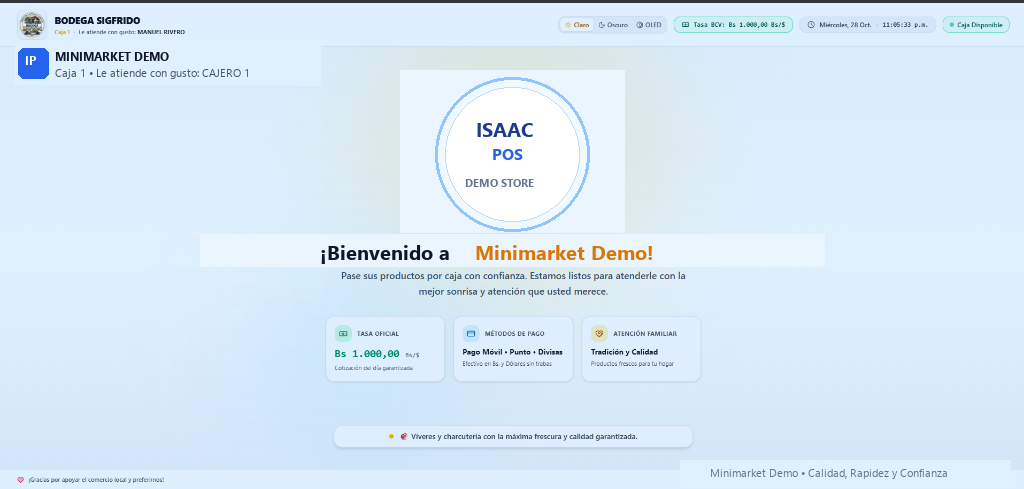
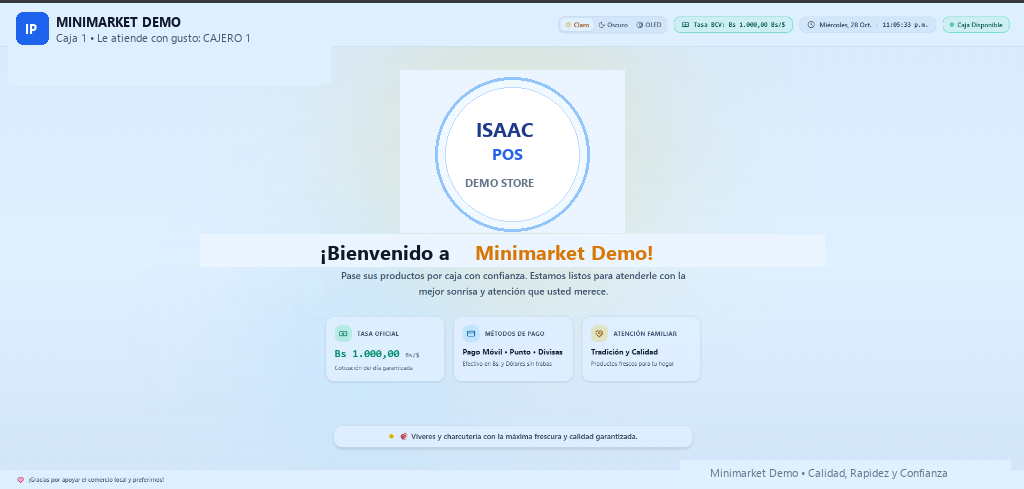
fix(audit): deep-clean remaining screenshot edges, remove legacy public assets, and sync checkout modal state

Changed region(s): [[0.0, 0.0307, 0.25, 0.184]]

diff --git a/src/components/RealSystemShowcase.tsx b/src/components/RealSystemShowcase.tsx
@@ -71,7 +71,7 @@ const PILLARS: PillarCategory[] = [
       },
       {
         id: "display",
-        name: "Visor de Cliente (2da Pantalla)",
+        name: "Visor Cliente (QR Pago Móvil)",
         badge: "QR Dinámico en Vivo",
         icon: Monitor,
         title: "Visor Secundario con QR de Pago Móvil para el Comprador",
@@ -83,6 +83,22 @@ const PILLARS: PillarCategory[] = [
           "Visualización bimonetaria transparente en USD y Bs a tasa BCV",
           "Reduce colas y elimina errores al transcribir números de teléfono o cédula",
           "Pantalla personalizable con el logo y bienvenida de tu comercio",
+        ],
+      },
+      {
+        id: "display_idle",
+        name: "Visor Cliente (Modo Bienvenida)",
+        badge: "Identidad Comercial",
+        icon: Monitor,
+        title: "Pantalla de Bienvenida del Cliente con Tasa BCV y Métodos de Pago",
+        description:
+          "Cuando la caja está disponible esperando al próximo cliente, el segundo monitor proyecta el emblema de tu negocio, la tasa oficial BCV vigente del día y los métodos de pago aceptados.",
+        image: "/real-system/v24_visor_cliente_idle.png",
+        highlights: [
+          "Exhibición permanente de la Tasa Oficial BCV para transparencia total",
+          "Personalización con el nombre, logo y mensaje de tu comercio",
+          "Indicador en vivo de métodos de pago (Pago Móvil, Punto, Divisas)",
+          "Conmutación automática al carrito de compras apenas se escanea el primer artículo",
         ],
       },
       {
@@ -285,31 +301,6 @@ export const RealSystemShowcase: React.FC = () => {
     }
   };
 
-  // Datos para el simulador de 2da pantalla con Tasa BCV Oficial en Vivo
-  const [bcvRate, setBcvRate] = useState<number>(857.89);
-
-  useEffect(() => {
-    fetch("/api/bcv")
-      .then((res) => res.json())
-      .then((json) => {
-        if (json?.data?.rate && typeof json.data.rate === "number") {
-          setBcvRate(json.data.rate);
-        }
-      })
-      .catch(() => {});
-  }, []);
-
-  const demoCart = [
-    { name: "Harina PAN 1kg", qty: 2, totalUsd: 2.5 },
-    { name: "Café Fama de América 250g", qty: 1, totalUsd: 2.8 },
-    { name: "Queso Llanero Blanco 1kg", qty: 0.85, totalUsd: 4.68 },
-    { name: "Refresco Coca Cola 2L", qty: 1, totalUsd: 2.4 },
-  ];
-  const demoSubtotal = demoCart.reduce((acc, i) => acc + i.totalUsd, 0);
-  const demoIva = demoSubtotal * 0.16;
-  const demoTotalUsd = demoSubtotal + demoIva;
-  const demoTotalBs = demoTotalUsd * bcvRate;
-
   return (
     <section id="sistema-real" className="py-20 relative bg-white border-t border-slate-200">
       <div className="max-w-7xl mx-auto px-4 sm:px-6 lg:px-8">
@@ -398,118 +389,38 @@ export const RealSystemShowcase: React.FC = () => {
               </div>
             </div>
 
-            {/* Columna Derecha: Captura Real o Visor de Cliente (7 cols) */}
+            {/* Columna Derecha: Captura Real del Módulo (7 cols) */}
             <div className="lg:col-span-7">
-              {activeSubModule.isDisplayDemo ? (
-                /* SIMULADOR EN VIVO DEL VISOR DE CLIENTE (/#/display) */
-                <div className="bg-white rounded-2xl border-2 border-blue-200 p-4 sm:p-6 shadow-xl">
-                  <div className="flex items-center justify-between pb-3 mb-4 border-b border-slate-200 text-xs font-mono">
-                    <div className="flex items-center gap-2">
-                      <span className="w-2.5 h-2.5 rounded-full bg-blue-600 animate-pulse"></span>
-                      <span className="text-blue-800 font-bold">MONITOR DE CLIENTE (/#/display)</span>
-                    </div>
-                    <span className="text-emerald-700 font-bold bg-emerald-50 px-2.5 py-0.5 rounded-full border border-emerald-200">
-                      1 USD = {bcvRate.toFixed(2)} Bs (BCV)
-                    </span>
+              <div className="bg-white rounded-2xl border border-slate-300 p-2 shadow-xl overflow-hidden group relative">
+                <div className="flex items-center justify-between px-3 py-2 border-b border-slate-200 text-xs font-mono text-slate-600 mb-2 bg-slate-50 rounded-t-xl">
+                  <div className="flex items-center gap-2">
+                    <span className="w-2.5 h-2.5 rounded-full bg-rose-400 inline-block"></span>
+                    <span className="w-2.5 h-2.5 rounded-full bg-amber-400 inline-block"></span>
+                    <span className="w-2.5 h-2.5 rounded-full bg-emerald-400 inline-block"></span>
+                    <span className="ml-2 text-slate-700 text-[11px] font-semibold">Isaac POS • {activeSubModule.name}</span>
                   </div>
-
-                  <div className="flex items-center justify-between bg-slate-50 p-3.5 rounded-xl border border-slate-200 mb-4">
-                    <div className="flex items-center gap-3">
-                      <div className="w-9 h-9 rounded-xl bg-white border border-slate-200 p-1 flex items-center justify-center shadow-xs">
-                        <img
-                          src="/isaac-logo-ultra.png"
-                          alt="Logo"
-                          className="w-full h-full object-contain"
-                        />
-                      </div>
-                      <div>
-                        <div className="text-xs font-bold text-slate-900">SUPERMERCADO DEMO</div>
-                        <div className="text-[11px] text-slate-500">Atendiendo a: <span className="text-blue-700 font-semibold">Cliente Mostrador</span></div>
-                      </div>
-                    </div>
-                    <div className="text-right">
-                      <span className="text-[10px] font-mono uppercase text-slate-400 block">Artículos</span>
-                      <span className="text-base font-mono font-bold text-blue-700">{demoCart.length} productos</span>
-                    </div>
-                  </div>
-
-                  <div className="space-y-1.5 mb-4 max-h-40 overflow-y-auto pr-1">
-                    {demoCart.map((item, idx) => (
-                      <div
-                        key={idx}
-                        className="flex items-center justify-between p-2 rounded-lg bg-slate-50/70 border border-slate-200 text-xs"
-                      >
-                        <div className="flex items-center gap-2">
-                          <span className="w-4 h-4 rounded bg-slate-200 text-slate-700 font-mono text-[9px] flex items-center justify-center font-bold">
-                            {idx + 1}
-                          </span>
-                          <span className="font-semibold text-slate-800">{item.name}</span>
-                          <span className="text-slate-500 text-[10px]">x{item.qty}</span>
-                        </div>
-                        <div className="text-right">
-                          <span className="font-mono font-bold text-slate-900">${item.totalUsd.toFixed(2)}</span>
-                          <span className="text-[10px] font-mono text-slate-500 ml-2">
-                            (Bs {(item.totalUsd * bcvRate).toFixed(2)})
-                          </span>
-                        </div>
-                      </div>
-                    ))}
-                  </div>
-
-                  <div className="bg-blue-50/80 p-4 rounded-xl border border-blue-200">
-                    <div className="flex justify-between items-center text-xs text-slate-600 pb-2 border-b border-blue-200/60">
-                      <span>Subtotal: ${demoSubtotal.toFixed(2)}</span>
-                      <span>IVA 16%: ${demoIva.toFixed(2)}</span>
-                    </div>
-                    <div className="flex justify-between items-end pt-3">
-                      <div>
-                        <div className="text-[10px] font-mono uppercase text-slate-500">Total a Pagar (USD)</div>
-                        <div className="text-2xl sm:text-3xl font-black text-slate-900 font-mono">
-                          ${demoTotalUsd.toFixed(2)}
-                        </div>
-                      </div>
-                      <div className="text-right">
-                        <div className="text-[10px] font-mono uppercase text-emerald-700 font-bold">Total en Bolívares</div>
-                        <div className="text-xl sm:text-2xl font-black text-emerald-700 font-mono">
-                          Bs {demoTotalBs.toLocaleString("es-VE", { minimumFractionDigits: 2, maximumFractionDigits: 2 })}
-                        </div>
-                      </div>
-                    </div>
-                  </div>
+                  <span className="text-blue-700 text-[10px] font-mono font-bold">● Modo Rápido</span>
                 </div>
-              ) : (
-                /* CAPTURA REAL DE PANTALLA DEL MÓDULO */
-                <div className="bg-white rounded-2xl border border-slate-300 p-2 shadow-xl overflow-hidden group relative">
-                  <div className="flex items-center justify-between px-3 py-2 border-b border-slate-200 text-xs font-mono text-slate-600 mb-2 bg-slate-50 rounded-t-xl">
-                    <div className="flex items-center gap-2">
-                      <span className="w-2.5 h-2.5 rounded-full bg-rose-400 inline-block"></span>
-                      <span className="w-2.5 h-2.5 rounded-full bg-amber-400 inline-block"></span>
-                      <span className="w-2.5 h-2.5 rounded-full bg-emerald-400 inline-block"></span>
-                      <span className="ml-2 text-slate-700 text-[11px] font-semibold">Isaac POS • {activeSubModule.name}</span>
-                    </div>
-                    <span className="text-blue-700 text-[10px] font-mono font-bold">● Modo Rápido</span>
-                  </div>
 
-                  {activeSubModule.image && (
-                    <div
-                      className="relative rounded-xl overflow-hidden cursor-zoom-in bg-slate-900"
-                      onClick={() => setIsZoomed(true)}
-                    >
-                      <Image
-                        src={activeSubModule.image}
-                        alt={activeSubModule.title}
-                        width={1024}
-                        height={551}
-                        className="w-full h-auto object-cover rounded-xl transition-transform duration-300 group-hover:scale-[1.008]"
-                      />
-                      <div className="absolute bottom-3 right-3 bg-white/95 backdrop-blur-md px-3 py-1.5 rounded-lg border border-slate-200 text-slate-800 text-xs font-semibold flex items-center gap-1.5 shadow-md">
-                        <Maximize2 className="w-3.5 h-3.5 text-blue-600" />
-                        <span>Clic para ampliar</span>
-                      </div>
+                {activeSubModule.image && (
+                  <div
+                    className="relative rounded-xl overflow-hidden cursor-zoom-in bg-slate-900"
+                    onClick={() => setIsZoomed(true)}
+                  >
+                    <Image
+                      src={activeSubModule.image}
+                      alt={activeSubModule.title}
+                      width={1024}
+                      height={551}
+                      className="w-full h-auto object-cover rounded-xl transition-transform duration-300 group-hover:scale-[1.008]"
+                    />
+                    <div className="absolute bottom-3 right-3 bg-white/95 backdrop-blur-md px-3 py-1.5 rounded-lg border border-slate-200 text-slate-800 text-xs font-semibold flex items-center gap-1.5 shadow-md">
+                      <Maximize2 className="w-3.5 h-3.5 text-blue-600" />
+                      <span>Clic para ampliar</span>
                     </div>
-                  )}
-                </div>
-              )}
+                  </div>
+                )}
+              </div>
             </div>
 
           </div>

diff --git a/src/components/SecureCheckoutModal.tsx b/src/components/SecureCheckoutModal.tsx
@@ -63,6 +63,20 @@ export const SecureCheckoutModal: React.FC<SecureCheckoutModalProps> = ({
   const [errorMsg, setErrorMsg] = useState<string | null>(null);
   const [successData, setSuccessData] = useState<any | null>(null);
 
+  // Sincronizar pestaña y plan seleccionado cada vez que se abre el modal desde cualquier botón de la web
+  useEffect(() => {
+    if (!isOpen) return;
+    setErrorMsg(null);
+    setSuccessData(null);
+    if (initialPlan === "demo_gratis") {
+      setActiveTab("demo");
+      setSelectedPlan("pro_anual");
+    } else {
+      setActiveTab("checkout");
+      setSelectedPlan(PLAN_DATA[initialPlan] ? initialPlan : "pro_anual");
+    }
+  }, [isOpen, initialPlan]);
+
   // Obtener la tasa oficial del BCV en vivo de forma automática cada vez que se abre el modal
   useEffect(() => {
     if (!isOpen) return;
